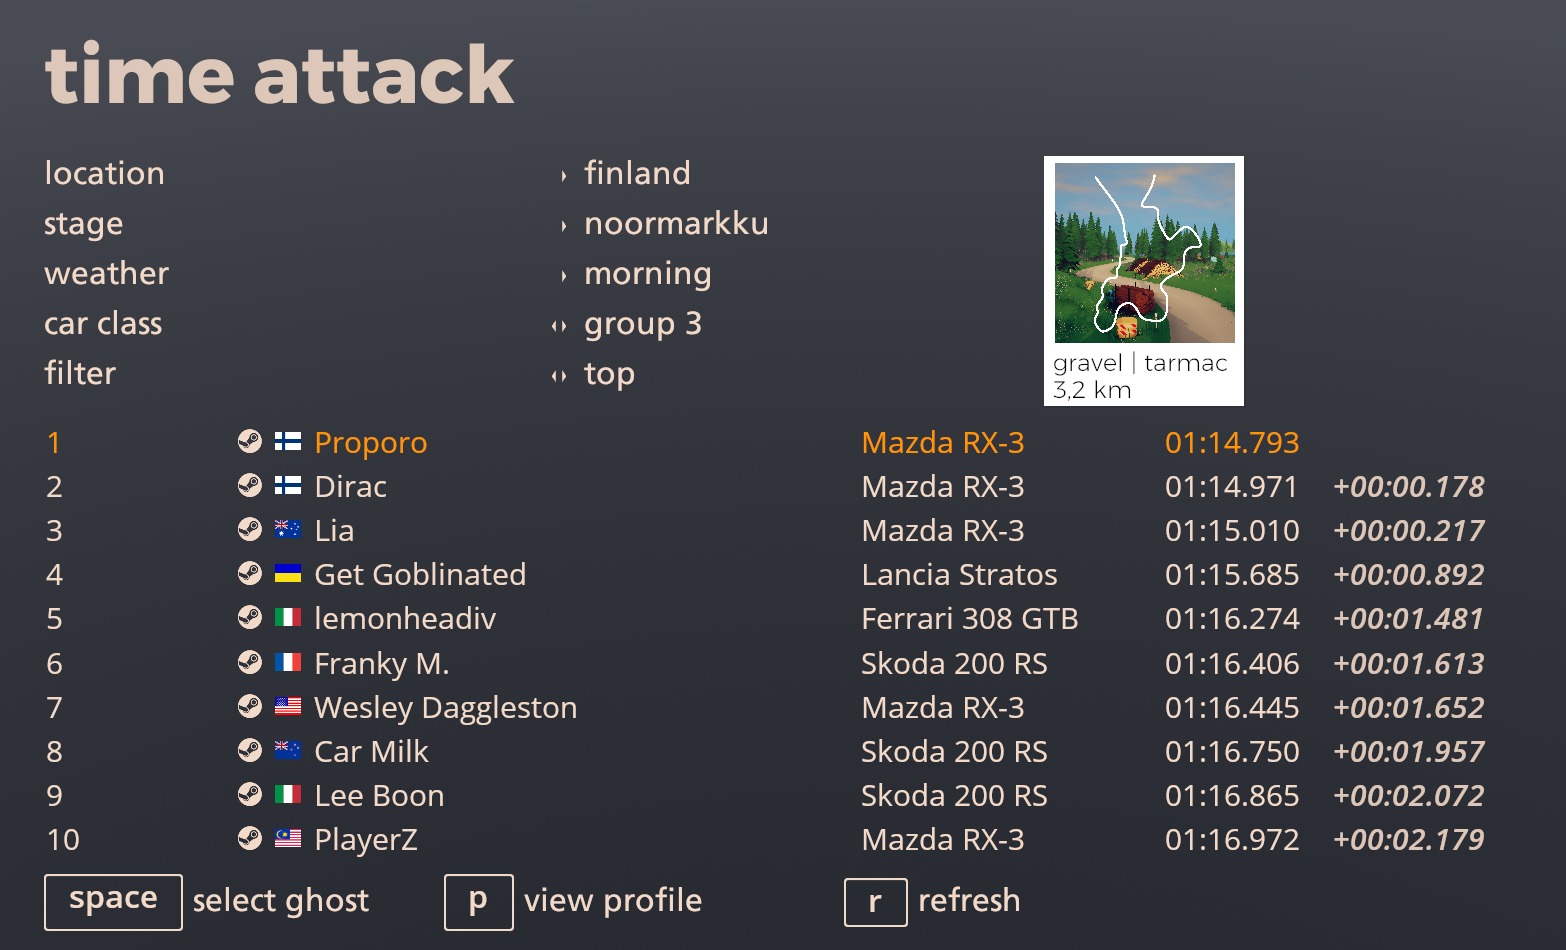
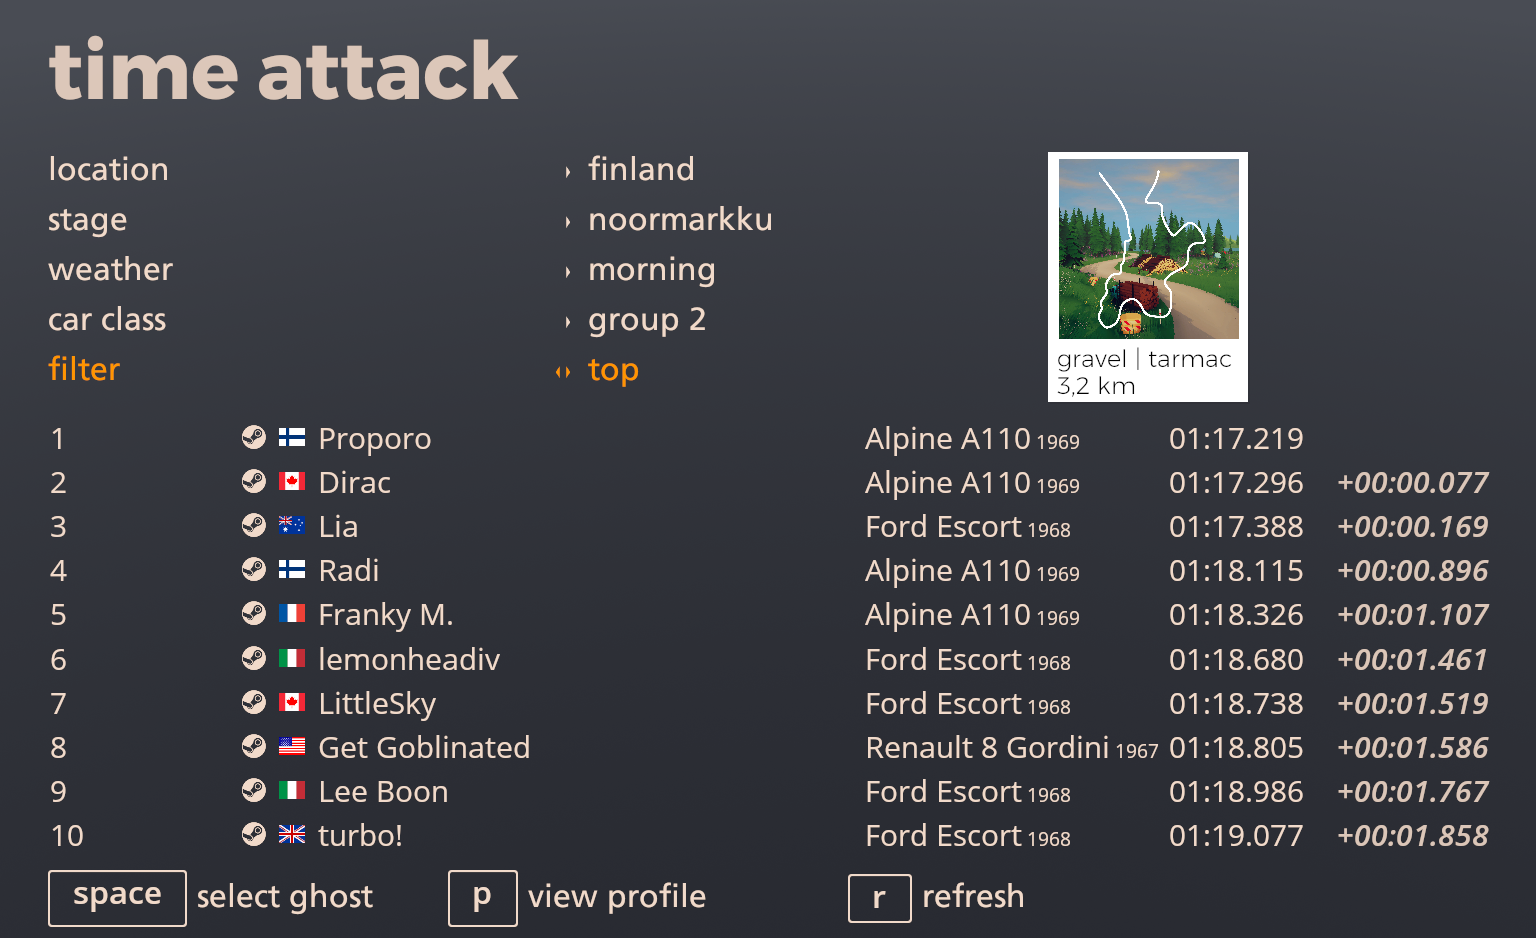
Update doc

diff --git a/Readme.md b/Readme.md
@@ -3,7 +3,7 @@
 [![](https://img.shields.io/github/v/release/MMike17/ArtOfRally_RealCarNames?label=Download)](https://github.com/MMike17/ArtOfRally_RealCarNames/releases/latest)
 ![](https://img.shields.io/badge/Game%20Version-v1.5.5-blue)
 
-A mod for Art of Rally replacing the name of cars in menus with their real counterpart names
+A mod for Art of Rally replacing the name of cars in menus with their real counterpart names (and production date).
 
 #### Launcher Support
 
@@ -22,27 +22,32 @@ A mod for Art of Rally replacing the name of cars in menus with their real count
 
 ## Usage
 
-Press `CTRL + F10` to bring up the mod menu.
-Adjust settings to select if you want real/original names with or without dates.
+Press `CTRL + F10` to bring up the mod menu.\
+Adjust settings to select what name format you want.
+
+"Original" is the default name of the car.\
+"Real" is the real name of the car.\
+"Year" is the year of the model.
+
 If the mod is disabled, the regular game names are displayed by default.
 
 ## Disclaimer
 
-UI hot reload no longer works.
+UI hot reload no longer works.\
 Please make sure to set the mod settings before entering menus where the car names are retrieved.
 
 ## Installation
 
 Follow the [installation guide](https://www.nexusmods.com/site/mods/21/) of
-the Unity Mod Manager.
+the Unity Mod Manager.\
 Then simply download the [latest release](https://github.com/MMike17/ArtOfRally_RealCarNames/releases/latest)
 and drop it into the mod manager's mods page.
 
 ## Showcase
 
 ![](Screenshots/Settings.png)
-![](Screenshots/RealNames.png)
-![](Screenshots/GameNames&Dates.png)
+![](Screenshots/OriginTimeRealSmall.png)
+![](Screenshots/RealOriginTimeParenthesis.png)
 ![](Screenshots/Leaderboard.png)
 
 ## Acknowledgments
